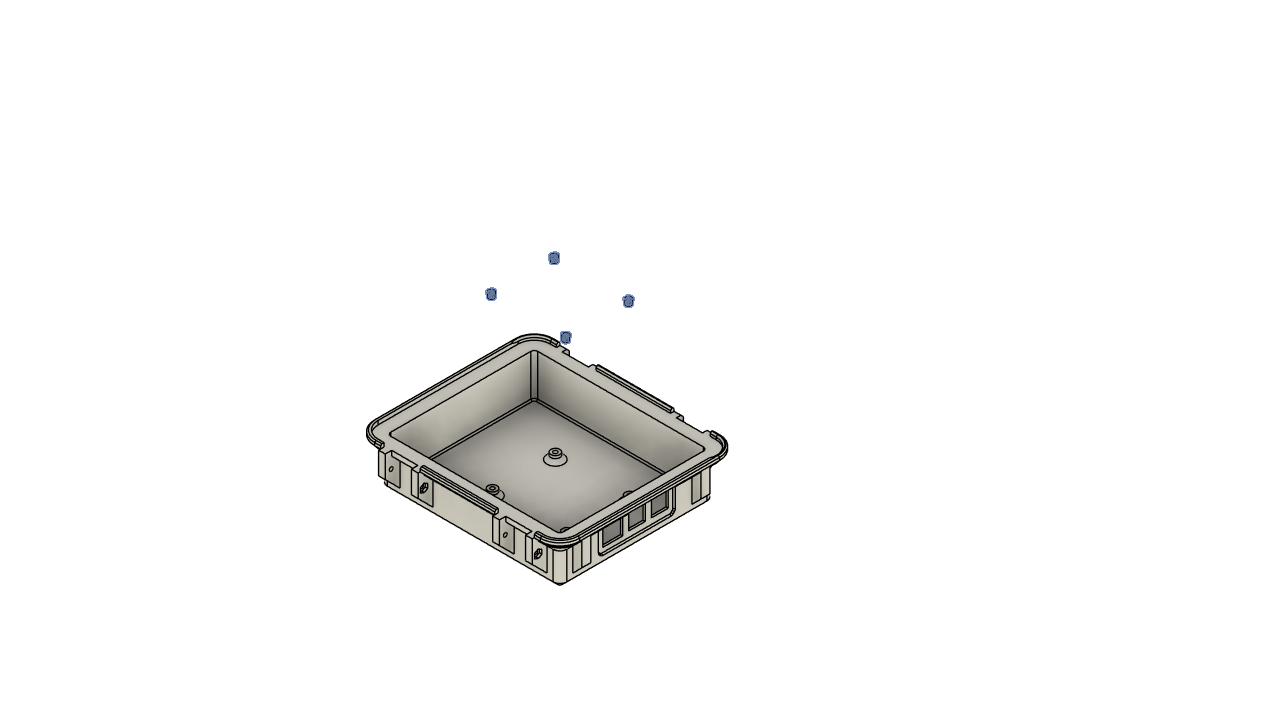
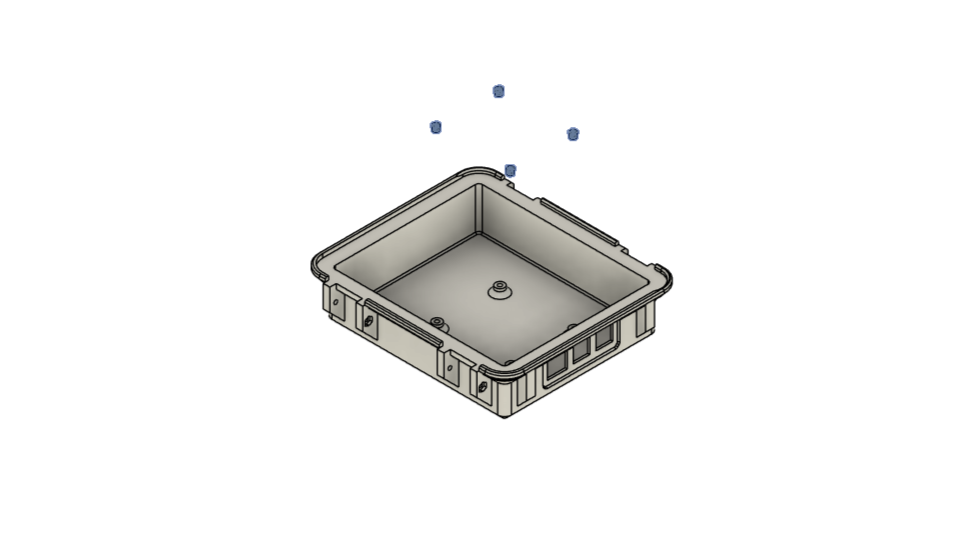
Protection Box Guide draft 01

diff --git a/setup/hardware.md b/setup/hardware.md
@@ -22,34 +22,16 @@ title: Hardware Assembly
 </div>
 
 
-## Assembly
+# Assembly guide – Minodu Local Network
 
-<iframe
-  src="https://YoutubePlaceHolder"
-  style="width:100%; height:480px;"
-></iframe>
-
-# Requirements
-- Weatherproof: rain-, dust- and windproof
-- Openable for maintenance
-- Contain RPi 5+ SolarPower Manager board(Type to be confirmed) with The TelaAgriculture board stacked on Top
-- Output for the sensors
-- Input for the solar panel cables
-
-## Stevenson Screen : Sensors
-- Stevenson Screen for environmental sensors that need to be protected but still measure temperature, humidity, etc.
-- Weather Meter connection
-
-
-## Images - Development Process
-
-## 3D Printing 
+## 3D Printing Guide
 
 ### Materials
 - ABS or PETG filament
 - TPU for flexible and sealing components
 
-### Files
+### 3D Files
+#### Protection Box 3d Files
 *ABS or at least PETG for outdoor setup*
  - [01x Base](../assets/3dFiles/Base_x01.stl)
  - [01x Top](../assets/3dFiles/Top_x01.stl) if you can Print Mulitcolor use This [Top_x01-MultiColor.stl](../assets/3dFiles/Top_x01-MultiColor.stl)
@@ -61,6 +43,17 @@ title: Hardware Assembly
  - [02x TPU Cable outlet cap](../assets/3dFiles/TPU_CableOutletCap_x02.stl)
  - [01x TPU RPi5 ports dust cap](../assets/3dFiles/TPU_RPi5PortDustCaps_x01.stl)
 
+#### Stevenson Screen Files
+  - [01x Stevenson screen sensor plate](../assets/3dFiles/StevensonScreen_RC01_Sensor_Plate)
+  - [01x Stevenson screen top](../assets/3dFiles/StevensonScreen_RC01_Top.stl)
+  - [01x Stevenson screen sensor plate holder](../assets/3dFiles/StevensonScreen_RC01_Midlle_SensorPlate_Holder.stl)
+  - [06x Stevenson screen Midlle](../assets/3dFiles/StevensonScreen_RC01_Midlle_X06)
+  - [01x Stevenson screen base](../assets/3dFiles/StevensonScreen_RC01_Base.stl)
+  - [01x Stevenson screen bottom cover](../assets/3dFiles/StevensonScreen_RC01_Botom.stl)
+ 
+
+ 
+
 ### Slicer Setup
 3D printers only understand G-code language (**geometric code)**; So what we need to do is to convert the *STL* files into G CODE. 
 
@@ -69,5 +62,201 @@ Tool tutorial: Watch [this quick video](https://www.youtube.com/watch?v=KWfKkeOS
 
 Here is The Orca slicer projectfile withh all the parts
     - [Minodu_Box.3mf](../assets/3dFiles/Minodu_Box.3mf)
+
+## Protection Box
+This guide explains how to assemble the 3D-printed protection box for the Minodu Local Network. The enclosure is designed to house a Raspberry Pi 5, the Tele-Agriculture Board, a 12V-to-5V DC-DC power converter, sensor cables, and can be mounted on a pole for outdoor installations with a Stevenson screen.
+
+Assembly video
+<iframe
+  src="https://YoutubePlaceHolder"
+  style="width:100%; height:480px;"
+></iframe>
+
+### Required Components
+
+#### 3D Printed Parts
+
+- Top cover
+- Bottom enclosure
+- 2 × Hinges
+- 2 × Latches
+- TPU dust cap
+
+#### Electronics
+
+- Raspberry Pi 5
+- Raspberry Pi Active Cooler
+- Tele-Agriculture Board
+- 12 V → 5 V DC-DC Converter
+- 30 × 30 × 10 mm cooling fan
+
+#### Hardware
+
+- 04x M2.5 heat-set inserts
+- 04x M2.5 × 20 mm standoffs
+- 04x M2.5 × 6 mm screws
+- 06x M3 × 30 mm hex socket head screws
+- 06x M3 hex nuts
+- 02x M6 heat-set inserts
+- 02x M6 × 14 mm countersunk screw
+
+### Step by step assembly
+#### Step 1 – Install Raspberry Pi Inserts
+
+Turn the top cover upside down.
+Insert the M2.5 heat-set inserts into the designated mounting holes using a soldering iron or heat-set insert tool.
+Ensure every insert sits perfectly flush with the plastic surface.
+*Allow the inserts to cool before continuing.*
+
+![Step 01](../assets/images/00.0.png "Step 01")
+![Step 02](../assets/images/00.1.jpg "Step 02")
+
+#### Step 2 – Mount the Raspberry Pi
+Position the Raspberry Pi 5 (with its cooling fan already installed) over the inserts.
+![Step 03](../assets/images/01.0.png "Step 03")
+
+
+Install the 20 mm M2.5 standoffs and secure the Raspberry Pi.
+![Step 0X](../assets/images/02.0.jpg "Step 0X")
+![Step 0X](../assets/images/02.1.jpg "Step 0X")
+
+Verify that the board is firmly mounted.
+![Step 0X](../assets/images/02.2.jpg "Step 0X")
+
+
+#### Step 3 – Install the Tele-Agriculture Board
+
+Place the Tele-Agriculture Board on top of the standoffs.
+![Step 0X](../assets/images/03.0.jpg "Step 0X")
+
+Secure it using M2.5 × 6 mm screws.
+![Step 0X](../assets/images/04.0.jpg "Step 0X")
+Install the fourth screw located beneath the display.
+Check that nothing moves or is loose.
+
+![Step 04](../assets/images/04.1.png "Step 0X")
+
+#### Step 4 – Assemble the Latches
+
+For each latch:
+
+Insert one M3 hex nut.
+Align the latch.
+Insert one M3 × 30 mm screw.
+Tighten until secure.
+![Step 0X](../assets/images/05.0.png "Step 0X")
+
+Repeat for the second latch.
+
+![Step 0X](../assets/images/05.1.jpg "Step 0X")
+
+![Step 0X](../assets/images/05.2.jpg "Step 0X")
+
+
+#### Step 5 – Assemble the Hinges
+
+Using the same hardware:
+
+Insert the M3 nut.
+Align the hinge.
+Insert the M3 × 30 mm screw.
+Tighten.
+![Step 0X](../assets/images/06.0.jpg "Step 0X")
+
+Repeat for the second hinge.
+
+Ensure both hinges rotate freely.
+
+![Step 0X](../assets/images/06.1.jpg "Step 0X")
+
+#### Step 6 – Install the DC Converter Insert
+
+Install the M6 heat-set insert for the DC-DC converter into the bottom enclosure.
+![Step 0X](../assets/images/07.0.jpg "Step 0X")
+
+Make sure it is completely flush with the plastic.
+
+![Step 0X](../assets/images/07.1.jpg "Step 0X")
+
+#### Step 7 – Install the Cooling Fan
+
+![Step 0X](../assets/images/08.1.jpg "Step 0X")
+
+Insert the 30 × 30 × 10 mm cooling fan into its ventilation opening.
+
+Ensure:
+The cable exits toward the wiring opening.
+Airflow is directed from inside the enclosure to the outside.
+Push the fan fully into position.
+If necessary, secure it with a very small amount of glue.
+
+![Step 0X](../assets/images/08.2.png "Step 0X")
+
+Important: Ensure the fan blades rotate freely. If the blades touch the enclosure, If they rub against the enclosure, it can be jammed, overheat and be fried.
+
+#### Step 8 – Install the DC-DC Converter
+
+Position the 12V-to-5V converter inside the enclosure.
+
+![Step 0X](../assets/images/09.0.jpg "Step 0X")
+
+Align the mounting holes with the insert.
+
+![Step 0X](../assets/images/09.1.jpg "Step 0X")
+
+Secure it using the M6 × 14 mm countersunk screw.
+
+![Step 0X](../assets/images/09.2.jpg "Step 0X")
+
+Ensure the wiring faces the cable exit.
+
+![Step 0X](../assets/images/09.3.jpg "Step 0X")
+
+#### Step 9 – Join Both Halves
+
+Align the hinge side first.
+
+Insert the hinge screws, nuts and, tighten.
+
+![Step 0X](../assets/images/10.0.jpg "Step 0X")
+![Step 0X](../assets/images/10.1.png "Step 0X")
+
+Then align the latch side and secure it.
+
+Verify that:
+
+- The enclosure opens smoothly.
+- The enclosure closes correctly.
+
+#### Step 10 – Install the Latch Clips
+
+Insert the two printed latch clips into the lower enclosure.
+Push them fully into place until flush.
+Close the enclosure and verify that the latches lock securely.
+
+![Step 0X](../assets/images/09.40.jpg "Step 0X")
+![Step 0X](../assets/images/09.41.jpg "Step 0X")
+
+#### Step 11 – Final Assembly
+
+Install:
+- TPU dust cap
+- Wi-Fi antenna
+- Sensor cables
+Install the dust cap around the cables to maintain dust protection. Route all cables through the cable openings.
+
+![Step 0X](../assets/images/xx.jpg "Step 0X")
+
+The enclosure is now ready to be mounted on a pole together with the Stevenson screen for outdoor deployment.
+
+
+## Stevenson Screen : Sensors
+- Stevenson Screen for environmental sensors that need to be protected but still measure temperature, humidity, etc.
+- Weather Meter connection
+### Required Components
+3D Printed Parts
+
+
+
 
 ##